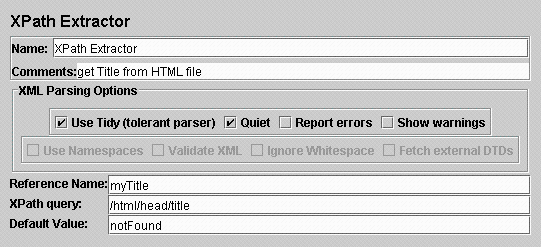
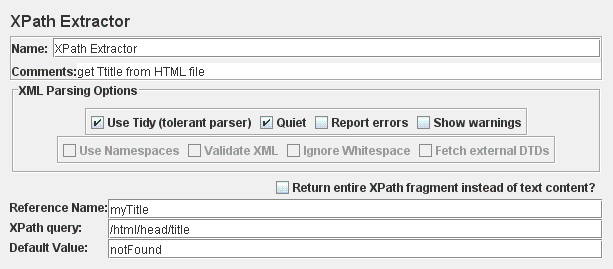
Bug 48331 - XpathExtractor does not return XML string representations for a Nodeset
git-svn-id: https://svn.apache.org/repos/asf/jakarta/jmeter/trunk@889487 13f79535-47bb-0310-9956-ffa450edef68

diff --git a/src/components/org/apache/jmeter/extractor/XPathExtractor.java b/src/components/org/apache/jmeter/extractor/XPathExtractor.java
@@ -21,6 +21,7 @@ import java.io.ByteArrayInputStream;
 import java.io.IOException;
 import java.io.Serializable;
 import java.io.UnsupportedEncodingException;
+import java.io.StringWriter;
 
 import javax.xml.parsers.ParserConfigurationException;
 import javax.xml.transform.TransformerException;
@@ -46,6 +47,12 @@ import org.w3c.dom.Node;
 import org.w3c.dom.NodeList;
 import org.xml.sax.SAXException;
 
+import javax.xml.transform.OutputKeys;
+import javax.xml.transform.Transformer;
+import javax.xml.transform.TransformerFactory;
+import javax.xml.transform.dom.DOMSource;
+import javax.xml.transform.stream.StreamResult;
+
 //@see org.apache.jmeter.extractor.TestXPathExtractor for unit tests
 
 /**
@@ -58,6 +65,10 @@ import org.xml.sax.SAXException;
  *     <dd>extracts value attribute of option element that match text 'Czech Republic'
  *                 inside of select element with name attribute  'country' inside of
  *                 form with name attribute 'countryForm'</dd>
+ * <dt>//head</dt>
+ *     <dd>extracts the XML fragment for head node.</dd>
+ * <dt>//head/text()</dt>
+ *     <dd>extracts the text content for head node.</dd>
  * </dl>
  */
  /* This file is inspired by RegexExtractor.
@@ -83,6 +94,7 @@ public class XPathExtractor extends AbstractTestElement implements
     private static final String DOWNLOAD_DTDS   = "XPathExtractor.download_dtds"; // $NON-NLS-1$
     private static final String WHITESPACE      = "XPathExtractor.whitespace"; // $NON-NLS-1$
     private static final String VALIDATE        = "XPathExtractor.validate"; // $NON-NLS-1$
+    private static final String FRAGMENT        = "XPathExtractor.fragment"; // $NON-NLS-1$
     //- JMX file attributes
 
 
@@ -203,6 +215,22 @@ public class XPathExtractor extends AbstractTestElement implements
         return getPropertyAsBoolean(QUIET, true);
     }
 
+    /**
+     * Should we return fragment as text, rather than text of fragment?
+     * @return true if we should return fragment rather than text
+     */
+    public boolean getFragment() {
+        return getPropertyAsBoolean(FRAGMENT, false);
+    }
+
+    /**
+     * Should we return fragment as text, rather than text of fragment?
+     * @param selected true to return fragment.
+     */
+    public void setFragment(boolean selected) {
+        setProperty(FRAGMENT, selected, false);
+    }
+
     /*================= internal business =================*/
     /**
      * Converts (X)HTML response to DOM object Tree.
@@ -249,13 +277,17 @@ public class XPathExtractor extends AbstractTestElement implements
             for (int i = 0 ; i < length; i++) {
                 Node match = matches.item(i);
                 if ( match instanceof Element){
-                // elements have empty nodeValue, but we are usually interested in their content
-                   final Node firstChild = match.getFirstChild();
-                   if (firstChild != null) {
-                       val = firstChild.getNodeValue();
-                   } else {
-                       val = match.getNodeValue(); // TODO is this correct?
-                   }
+                    if (getFragment()){
+                        val = getValueForNode(match);                        
+                    } else {
+                        // elements have empty nodeValue, but we are usually interested in their content
+                        final Node firstChild = match.getFirstChild();
+                        if (firstChild != null) {
+                            val = firstChild.getNodeValue();
+                        } else {
+                            val = match.getNodeValue(); // TODO is this correct?
+                        }
+                    }                   
                 } else {
                    val = match.getNodeValue();
                 }
@@ -302,5 +334,17 @@ public class XPathExtractor extends AbstractTestElement implements
 
     public boolean isDownloadDTDs() {
         return getPropertyAsBoolean(DOWNLOAD_DTDS, false);
+    }     
+    
+    private String getValueForNode(Node node) {
+        StringWriter sw = new StringWriter();
+        try {
+            Transformer t = TransformerFactory.newInstance().newTransformer();
+            t.setOutputProperty(OutputKeys.OMIT_XML_DECLARATION, "yes");
+            t.transform(new DOMSource(node), new StreamResult(sw));
+        } catch (TransformerException e) {
+            sw.write(e.getMessageAndLocation());
+        }
+        return sw.toString();
     }
 }

diff --git a/src/components/org/apache/jmeter/extractor/gui/XPathExtractorGui.java b/src/components/org/apache/jmeter/extractor/gui/XPathExtractorGui.java
@@ -24,6 +24,7 @@ import java.util.List;
 
 import javax.swing.BorderFactory;
 import javax.swing.Box;
+import javax.swing.JCheckBox;
 import javax.swing.JComponent;
 import javax.swing.JPanel;
 
@@ -47,6 +48,8 @@ public class XPathExtractorGui extends AbstractPostProcessorGui {
 
     private JLabeledTextField refNameField;
 
+    private JCheckBox getFragment; // Should we return fragment as text, rather than text of fragment?
+    
     private XMLConfPanel xml;
     
     public String getLabelResource() {
@@ -65,6 +68,7 @@ public class XPathExtractorGui extends AbstractPostProcessorGui {
         xpathQueryField.setText(xpe.getXPathQuery());
         defaultField.setText(xpe.getDefaultValue());
         refNameField.setText(xpe.getRefName());
+        getFragment.setSelected(xpe.getFragment());
         xml.configure(xpe);
     }
 
@@ -82,6 +86,7 @@ public class XPathExtractorGui extends AbstractPostProcessorGui {
             xpath.setDefaultValue(defaultField.getText());
             xpath.setRefName(refNameField.getText());
             xpath.setXPathQuery(xpathQueryField.getText());
+            xpath.setFragment(getFragment.isSelected());
             xml.modifyTestElement(xpath);
         }
     }
@@ -109,8 +114,10 @@ public class XPathExtractorGui extends AbstractPostProcessorGui {
         xml.setBorder(BorderFactory.createTitledBorder(BorderFactory.createEtchedBorder(), JMeterUtils
                 .getResString("xpath_assertion_option"))); //$NON-NLS-1$
         box.add(xml);
+        getFragment = new JCheckBox(JMeterUtils.getResString("xpath_extractor_fragment"));//$NON-NLS-1$
+        box.add(getFragment);
+        box.add(makeParameterPanel());
         add(box, BorderLayout.NORTH);
-        add(makeParameterPanel(), BorderLayout.CENTER);
     }
 
 

diff --git a/test/src/org/apache/jmeter/extractor/TestXPathExtractor.java b/test/src/org/apache/jmeter/extractor/TestXPathExtractor.java
@@ -128,6 +128,26 @@ public class TestXPathExtractor extends TestCase {
             assertEquals("Default", vars.get(VAL_NAME));
             assertEquals("1", vars.get(VAL_NAME_NR));
             assertNull(vars.get(VAL_NAME+"_1"));
+
+            // No text
+            extractor.setXPathQuery("//a");
+            extractor.process();
+            assertEquals("Default", vars.get(VAL_NAME));
+
+            // Test fragment
+            extractor.setXPathQuery("/book/page[2]");
+            extractor.setFragment(true);
+            extractor.process();
+            assertEquals("<page>two</page>", vars.get(VAL_NAME));
+            // Now get its text
+            extractor.setXPathQuery("/book/page[2]/text()");
+            extractor.process();
+            assertEquals("two", vars.get(VAL_NAME));
+
+            // No text, but using fragment mode
+            extractor.setXPathQuery("//a");
+            extractor.process();
+            assertEquals("<a><b/></a>", vars.get(VAL_NAME));
         }
 
         public void testInvalidXpath() throws Exception {
